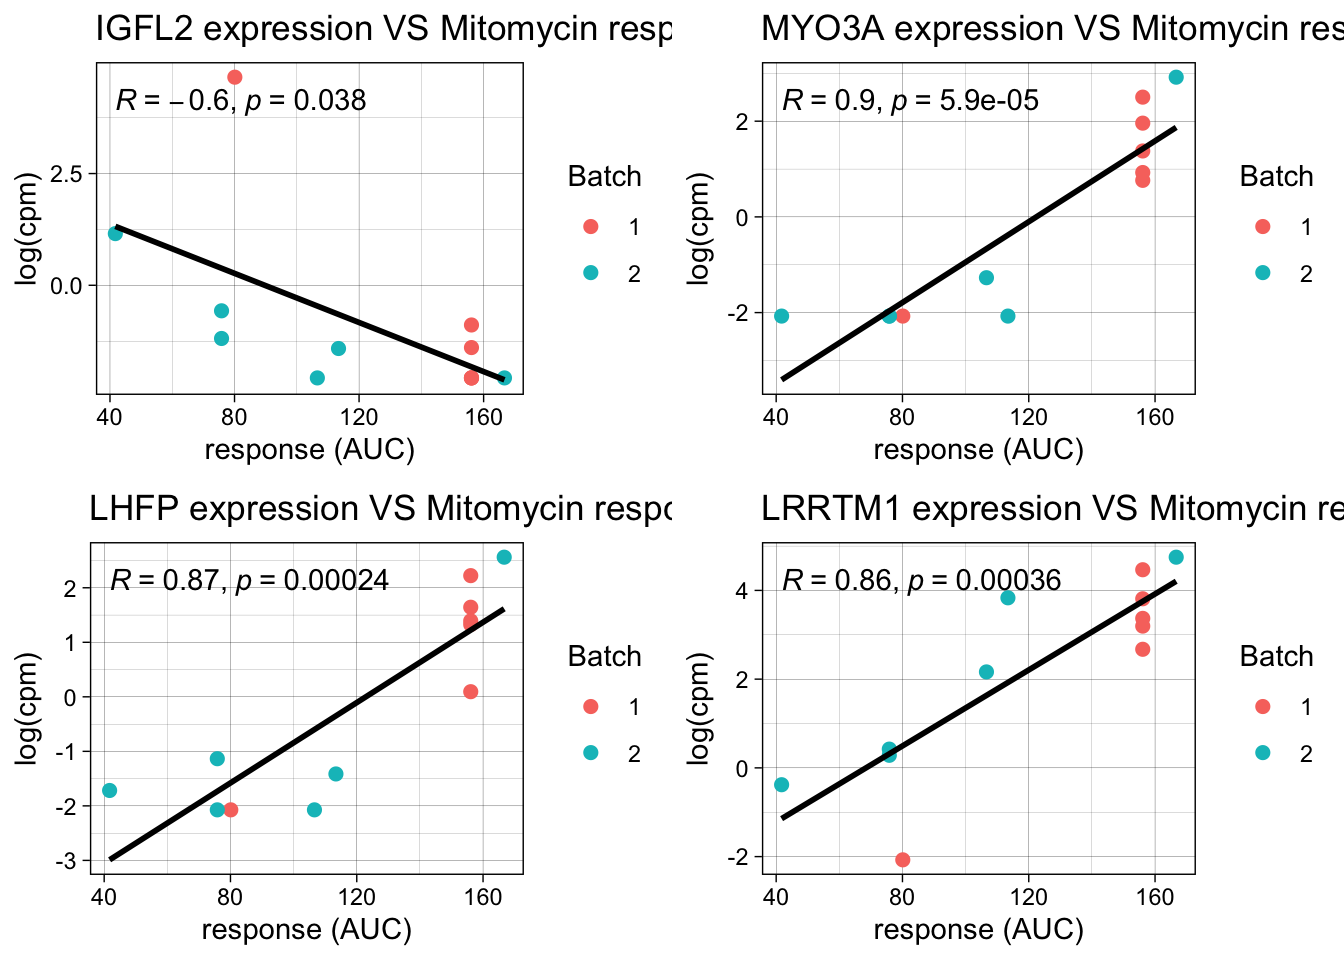
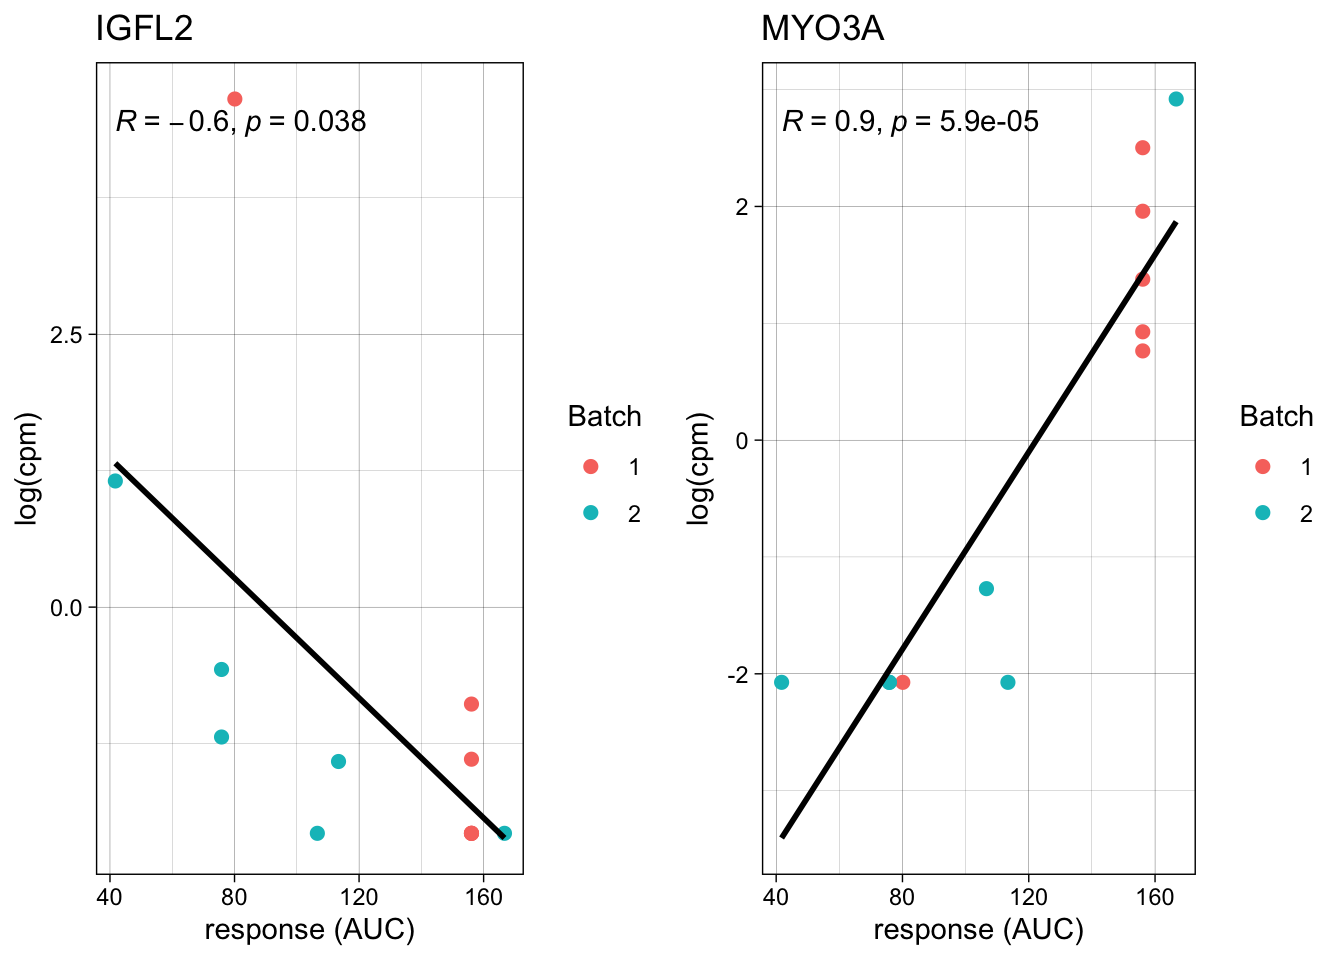
Updated Mitomycin graphs

diff --git a/docs/Mitomycin_Analysis.html b/docs/Mitomycin_Analysis.html
@@ -426,10 +426,10 @@ changes </a>
 <div id="strongRMarkdownfilestronguncommittedchanges"
 class="panel-collapse collapse">
 <div class="panel-body">
-<p>The R Markdown is untracked by Git. To know which version of the R
-Markdown file created these results, you’ll want to first commit it to
-the Git repo. If you’re still working on the analysis, you can ignore
-this warning. When you’re finished, you can run
+<p>The R Markdown file has unstaged changes. To know which version of
+the R Markdown file created these results, you’ll want to first commit
+it to the Git repo. If you’re still working on the analysis, you can
+ignore this warning. When you’re finished, you can run
 <code>wflow_publish</code> to commit the R Markdown file and build the
 HTML.</p>
 </div>
@@ -522,15 +522,15 @@ project makes it easier to run your code on other machines.</p>
 <div class="panel panel-default">
 <div class="panel-heading">
 <p class="panel-title">
-<a data-toggle="collapse" data-parent="#workflowr-checks" href="#strongRepositoryversionstrongahrefhttpsgithubcomkitadalvidrugAUCanalysistreeb75b2693f0e0ab84eeb20393d77d1c17b29f6ea9targetblankb75b269a">
+<a data-toggle="collapse" data-parent="#workflowr-checks" href="#strongRepositoryversionstrongahrefhttpsgithubcomkitadalvidrugAUCanalysistreecb8736fb468202ed6c0c7395fc3cc79ff7bb10f9targetblankcb8736fa">
 <span class="glyphicon glyphicon-ok text-success"
 aria-hidden="true"></span> <strong>Repository version:</strong>
-<a href="https://github.com/kitadalvi/drug-AUC-analysis/tree/b75b2693f0e0ab84eeb20393d77d1c17b29f6ea9" target="_blank">b75b269</a>
+<a href="https://github.com/kitadalvi/drug-AUC-analysis/tree/cb8736fb468202ed6c0c7395fc3cc79ff7bb10f9" target="_blank">cb8736f</a>
 </a>
 </p>
 </div>
 <div
[2 lines of base64/hex data omitted]
 class="panel-collapse collapse">
 <div class="panel-body">
 <p>
@@ -540,7 +540,7 @@ reproducibility.
 </p>
 <p>
 The results in this page were generated with repository version
-<a href="https://github.com/kitadalvi/drug-AUC-analysis/tree/b75b2693f0e0ab84eeb20393d77d1c17b29f6ea9" target="_blank">b75b269</a>.
+<a href="https://github.com/kitadalvi/drug-AUC-analysis/tree/cb8736fb468202ed6c0c7395fc3cc79ff7bb10f9" target="_blank">cb8736f</a>.
 See the <em>Past versions</em> tab to see a history of the changes made
 to the R Markdown and HTML files.
 </p>
@@ -558,12 +558,8 @@ Ignored files:
     Ignored:    .Rhistory
     Ignored:    .Rproj.user/
 
-Untracked files:
-    Untracked:  analysis/Mitomycin_Analysis.Rmd
-
 Unstaged changes:
-    Modified:   analysis/MDSplots.Rmd
-    Modified:   analysis/index.Rmd
+    Modified:   analysis/Mitomycin_Analysis.Rmd
 
 </code></pre>
 <p>
@@ -578,10 +574,74 @@ have uncommitted changes.
 <hr>
 </div>
 <div id="versions" class="tab-pane fade">
+
 <p>
-There are no past versions. Publish this analysis with
-<code>wflow_publish()</code> to start tracking its development.
+These are the previous versions of the repository in which changes were
+made to the R Markdown (<code>analysis/Mitomycin_Analysis.Rmd</code>)
+and HTML (<code>docs/Mitomycin_Analysis.html</code>) files. If you’ve
+configured a remote Git repository (see <code>?wflow_git_remote</code>),
+click on the hyperlinks in the table below to view the files as they
+were in that past version.
 </p>
+<div class="table-responsive">
+<table class="table table-condensed table-hover">
+<thead>
+<tr>
+<th>
+File
+</th>
+<th>
+Version
+</th>
+<th>
+Author
+</th>
+<th>
+Date
+</th>
+<th>
+Message
+</th>
+</tr>
+</thead>
+<tbody>
+<tr>
+<td>
+Rmd
+</td>
+<td>
+<a href="https://github.com/kitadalvi/drug-AUC-analysis/blob/cb8736fb468202ed6c0c7395fc3cc79ff7bb10f9/analysis/Mitomycin_Analysis.Rmd" target="_blank">cb8736f</a>
+</td>
+<td>
+kitadalvi
+</td>
+<td>
+2024-07-17
+</td>
+<td>
+Added correlation analysis for Mitomycin
+</td>
+</tr>
+<tr>
+<td>
+html
+</td>
+<td>
+<a href="https://rawcdn.githack.com/kitadalvi/drug-AUC-analysis/cb8736fb468202ed6c0c7395fc3cc79ff7bb10f9/docs/Mitomycin_Analysis.html" target="_blank">cb8736f</a>
+</td>
+<td>
+kitadalvi
+</td>
+<td>
+2024-07-17
+</td>
+<td>
+Added correlation analysis for Mitomycin
+</td>
+</tr>
+</tbody>
+</table>
+</div>
 <hr>
 </div>
 </div>
@@ -674,7 +734,121 @@ sig_genes[0:10,]</code></pre>
 <div id="plotting-gene-expression-vs-mitomycin-response"
 class="section level1">
 <h1>Plotting Gene expression VS Mitomycin response</h1>
-<p><img src="figure/Mitomycin_Analysis.Rmd/unnamed-chunk-7-1.png" width="672" style="display: block; margin: auto;" /><img src="figure/Mitomycin_Analysis.Rmd/unnamed-chunk-7-2.png" width="672" style="display: block; margin: auto;" /><img src="figure/Mitomycin_Analysis.Rmd/unnamed-chunk-7-3.png" width="672" style="display: block; margin: auto;" /></p>
+<p><img src="figure/Mitomycin_Analysis.Rmd/unnamed-chunk-7-1.png" width="672" style="display: block; margin: auto;" /></p>
+<p>
+<button type="button" class="btn btn-default btn-xs btn-workflowr btn-workflowr-fig" data-toggle="collapse" data-target="#fig-unnamed-chunk-7-1">
+Past versions of unnamed-chunk-7-1.png
+</button>
+</p>
+<div id="fig-unnamed-chunk-7-1" class="collapse">
+<div class="table-responsive">
+<table class="table table-condensed table-hover">
+<thead>
+<tr>
+<th>
+Version
+</th>
+<th>
+Author
+</th>
+<th>
+Date
+</th>
+</tr>
+</thead>
+<tbody>
+<tr>
+<td>
+<a href="https://github.com/kitadalvi/drug-AUC-analysis/blob/cb8736fb468202ed6c0c7395fc3cc79ff7bb10f9/docs/figure/Mitomycin_Analysis.Rmd/unnamed-chunk-7-1.png" target="_blank">cb8736f</a>
+</td>
+<td>
+kitadalvi
+</td>
+<td>
+2024-07-17
+</td>
+</tr>
+</tbody>
+</table>
+</div>
+</div>
+<p><img src="figure/Mitomycin_Analysis.Rmd/unnamed-chunk-7-2.png" width="672" style="display: block; margin: auto;" /></p>
+<p>
+<button type="button" class="btn btn-default btn-xs btn-workflowr btn-workflowr-fig" data-toggle="collapse" data-target="#fig-unnamed-chunk-7-2">
+Past versions of unnamed-chunk-7-2.png
+</button>
+</p>
+<div id="fig-unnamed-chunk-7-2" class="collapse">
+<div class="table-responsive">
+<table class="table table-condensed table-hover">
+<thead>
+<tr>
+<th>
+Version
+</th>
+<th>
+Author
+</th>
+<th>
+Date
+</th>
+</tr>
+</thead>
+<tbody>
+<tr>
+<td>
+<a href="https://github.com/kitadalvi/drug-AUC-analysis/blob/cb8736fb468202ed6c0c7395fc3cc79ff7bb10f9/docs/figure/Mitomycin_Analysis.Rmd/unnamed-chunk-7-2.png" target="_blank">cb8736f</a>
+</td>
+<td>
+kitadalvi
+</td>
+<td>
+2024-07-17
+</td>
+</tr>
+</tbody>
+</table>
+</div>
+</div>
+<p><img src="figure/Mitomycin_Analysis.Rmd/unnamed-chunk-7-3.png" width="672" style="display: block; margin: auto;" /></p>
+<p>
+<button type="button" class="btn btn-default btn-xs btn-workflowr btn-workflowr-fig" data-toggle="collapse" data-target="#fig-unnamed-chunk-7-3">
+Past versions of unnamed-chunk-7-3.png
+</button>
+</p>
+<div id="fig-unnamed-chunk-7-3" class="collapse">
+<div class="table-responsive">
+<table class="table table-condensed table-hover">
+<thead>
+<tr>
+<th>
+Version
+</th>
+<th>
+Author
+</th>
+<th>
+Date
+</th>
+</tr>
+</thead>
+<tbody>
+<tr>
+<td>
+<a href="https://github.com/kitadalvi/drug-AUC-analysis/blob/cb8736fb468202ed6c0c7395fc3cc79ff7bb10f9/docs/figure/Mitomycin_Analysis.Rmd/unnamed-chunk-7-3.png" target="_blank">cb8736f</a>
+</td>
+<td>
+kitadalvi
+</td>
+<td>
+2024-07-17
+</td>
+</tr>
+</tbody>
+</table>
+</div>
+</div>
+<p><img src="figure/Mitomycin_Analysis.Rmd/unnamed-chunk-7-4.png" width="672" style="display: block; margin: auto;" /><img src="figure/Mitomycin_Analysis.Rmd/unnamed-chunk-7-5.png" width="672" style="display: block; margin: auto;" /></p>
 <br>
 <p>
 <button type="button" class="btn btn-default btn-workflowr btn-workflowr-sessioninfo" data-toggle="collapse" data-target="#workflowr-sessioninfo" style="display: block;">
